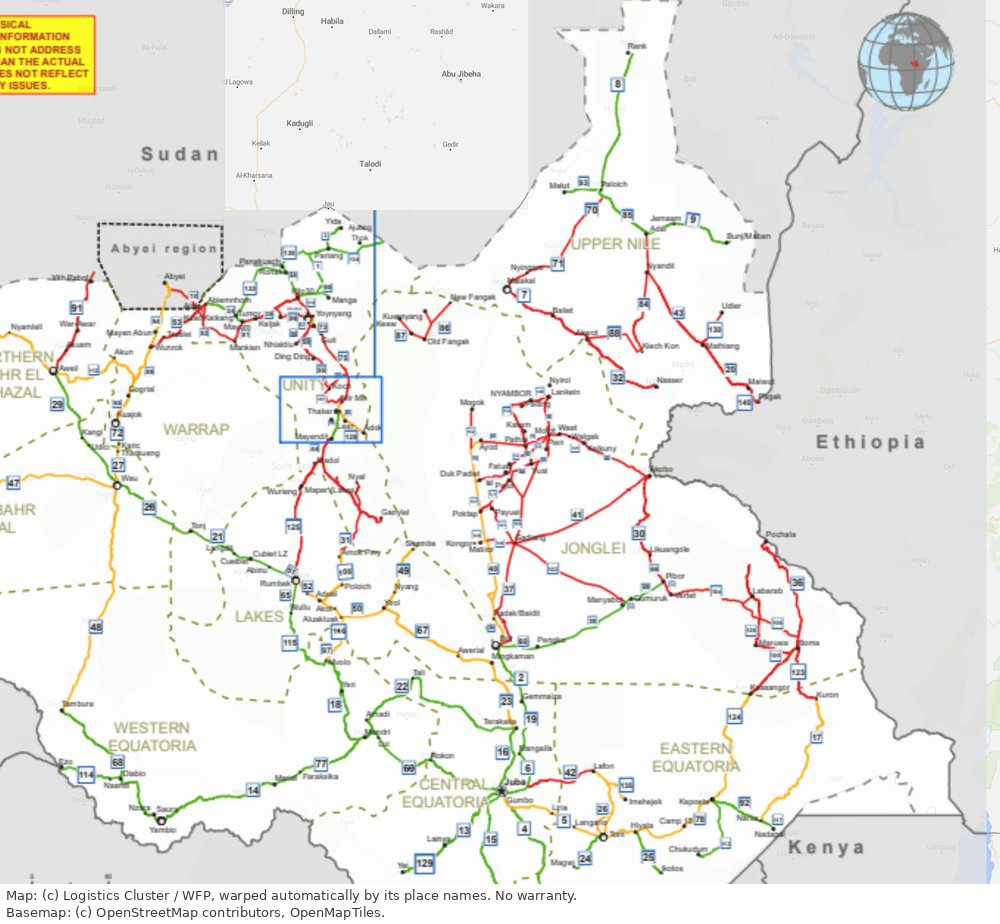
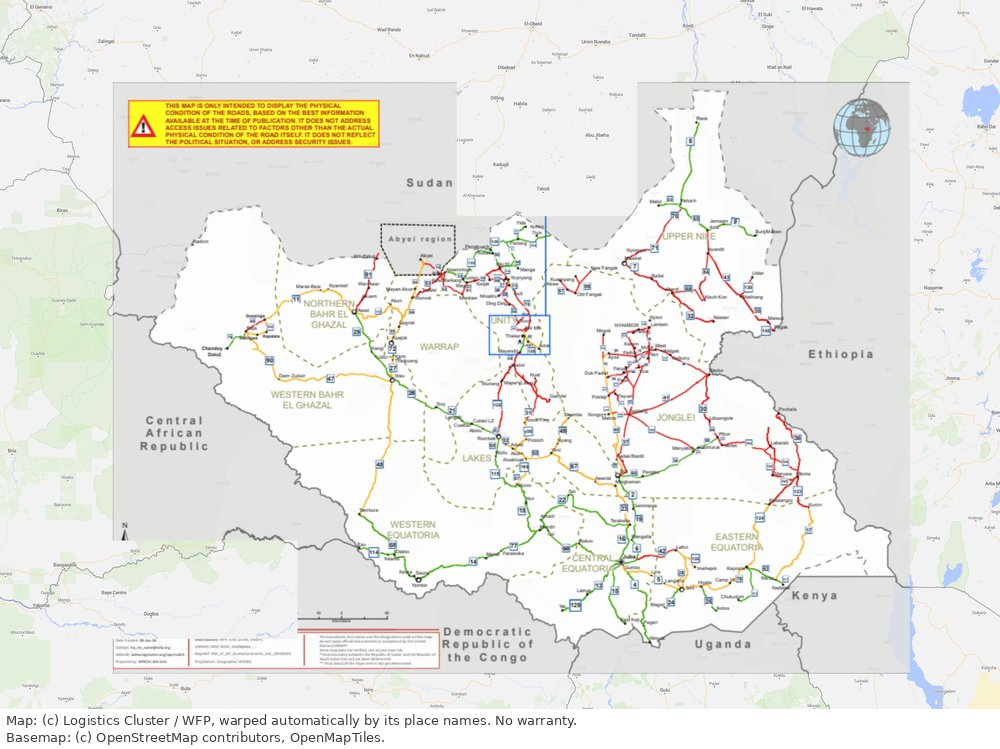
README: quoted and georeferenced WFP maps side by side, on a wider reference
The reference cut off the west and south of South Sudan; it now spans
21.8-37.6 E, 1.9-13.6 N. The GIF draws the roads after the background is
made small, at 3 px, with one palette that keeps the status colours exact
(a palette per frame had turned red brown).

Claude-Session: https://claude.ai/code/session_01Y7Mysqy6k86s5wo5Qk5Znr

diff --git a/.agents/skills/road-access/scripts/road_render.py b/.agents/skills/road-access/scripts/road_render.py
@@ -77,9 +77,23 @@ def frames_of(docs):
     return out
 
 
-def to_px(gt, lon, lat):
+def to_px(gt, lon, lat, scale=1.0):
     mx, my = wm.lonlat_to_mercator(lon, lat)
-    return (mx - gt[0]) / gt[1], (my - gt[3]) / gt[5]
+    return (mx - gt[0]) / gt[1] * scale, (my - gt[3]) / gt[5] * scale
+
+
+def palette_for(base, colours=112):
+    """A palette for every frame: the background's own colours, then the status colours and the text's, exactly
+    (a palette made per frame turns red brown and greens grey)."""
+    from PIL import Image
+    q = base.quantize(colors=colours, method=Image.MEDIANCUT)
+    pal = q.getpalette()[: colours * 3]
+    for c in list(COLOURS.values()) + [(0, 0, 0), (60, 60, 60), (255, 255, 255), (120, 120, 120)]:
+        pal += list(c)
+    pal += [0] * (768 - len(pal))
+    img = Image.new("P", (1, 1))
+    img.putpalette(pal)
+    return img
 
 
 def font(size):
@@ -92,7 +106,7 @@ def font(size):
     return ImageFont.load_default(size=size)
 
 
-def draw_roads(base, gt, features, width=4):
+def draw_roads(base, gt, features, width=4, scale=1.0):
     from PIL import ImageDraw
     dr = ImageDraw.Draw(base)
     order = ["passable", "last-mile delivery by land cruiser", "passable with difficulties", "not passable"]
@@ -102,7 +116,7 @@ def draw_roads(base, gt, features, width=4):
                 continue
             g = f["geometry"]
             for p in ([g["coordinates"]] if g["type"] == "LineString" else g["coordinates"]):
-                dr.line([to_px(gt, *c) for c in p], fill=COLOURS[s], width=width, joint="curve")
+                dr.line([to_px(gt, *c, scale=scale) for c in p], fill=COLOURS[s], width=width, joint="curve")
     return base
 
 
@@ -195,16 +209,18 @@ def cmd_gif(a):
     from PIL import Image
     docs = [json.loads(Path(p).read_text()) for p in a.geojson]
     ref, gt = load_reference(a.reference)
+    # the background is made small first and the roads drawn on it at their final width
+    scale = min(1.0, a.width / ref.width) if a.width else 1.0
+    base = faded(ref).resize((round(ref.width * scale), round(ref.height * scale)), Image.LANCZOS)
+    pal = palette_for(base)
     frames = []
     for d, feats, km in frames_of(docs):
-        img = draw_roads(faded(ref), gt, feats, width=a.line)
+        img = draw_roads(base.copy(), gt, feats, width=a.line, scale=scale)
         lines = [(d, None)] + [(f"{LABELS[s]}: {round(km.get(s, 0)):,} km", COLOURS[s])
                                for s in LABELS if s in km or s != "last-mile delivery by land cruiser"]
-        if a.width and img.width > a.width:
-            img = img.resize((a.width, round(img.height * a.width / img.width)), Image.LANCZOS)
-        legend(img, lines, (10, 10), size=max(12, a.width // 50))
-        credit(img, size=max(10, a.width // 70))
-        frames.append(img.quantize(colors=96, method=Image.MEDIANCUT, dither=Image.NONE))
+        legend(img, lines, (10, 10), size=max(12, img.width // 50))
+        credit(img, size=max(10, img.width // 70))
+        frames.append(img.quantize(palette=pal, dither=Image.NONE))
     frames[0].save(a.out, save_all=True, append_images=frames[1:], duration=a.ms, loop=0, optimize=True)
     print(json.dumps({"out": a.out, "frames": len(frames)}))
 
@@ -224,8 +240,8 @@ def main():
     m.add_argument("geojson", nargs="+")
     m.add_argument("--reference", required=True)
     m.add_argument("--out", required=True)
-    m.add_argument("--width", type=int, default=800)
-    m.add_argument("--line", type=int, default=5)
+    m.add_argument("--width", type=int, default=900)
+    m.add_argument("--line", type=int, default=3)
     m.add_argument("--ms", type=int, default=700)
     a = ap.parse_args()
     {"georef": cmd_georef, "gif": cmd_gif}[a.cmd](a)

diff --git a/.agents/skills/road-access/scripts/test_road_render.py b/.agents/skills/road-access/scripts/test_road_render.py
@@ -36,3 +36,14 @@ def test_frames_are_in_date_order_with_lengths_by_status():
     assert [d for d, _, _ in fr] == ["2026-01-01", "2026-02-01"]
     km = fr[1][2]
     assert abs(km["passable"] - 111.2) < 1 and fr[0][2]["not passable"] > 150
+
+
+def test_a_palette_keeps_the_status_colours_exactly():
+    from PIL import Image, ImageDraw
+    base = Image.new("RGB", (50, 50), (240, 240, 240))
+    ImageDraw.Draw(base).rectangle([0, 0, 25, 25], fill=(200, 220, 200))
+    pal = rr.palette_for(base)
+    img = base.copy()
+    ImageDraw.Draw(img).line([(0, 40), (49, 40)], fill=rr.COLOURS["not passable"], width=3)
+    q = img.quantize(palette=pal, dither=Image.NONE).convert("RGB")
+    assert q.getpixel((20, 40)) == rr.COLOURS["not passable"]

diff --git a/README.md b/README.md
@@ -305,23 +305,14 @@ PDF が 1,310 件ある全体の処理は、新しい年から進めています
 
 30 枚全てが関門を通りました (アフィン、GCP は 31〜92 点、1 点ずつ外したときの残差は最大 2.28 px)。道路の線は合わせて 8,939 本です。
 
-下の 2 枚は、乾季の 2026 年 1 月 9 日と、雨季の 2026 年 7 月 31 日の元の地図です。どちらも原本の PDF から縮小して引用しています。
+乾季の 2026 年 1 月 9 日と雨季の 2026 年 7 月 31 日の版について、引用元の地図 (原本の PDF から縮小して引用) と、関門を通った答え (地名から作った GCP によるアフィン変換) で OSM の上に写した図を並べます。国境、町、川が OSM の位置に重なります。右の表と、地図の上に重ねた拡大図は、位置が合わないので外しています。
 
-![South Sudan - Access Constraints Map, 9 January 2026 (引用)](docs/examples/level6-wfp-ssd-2026-01-09-original.jpg)
+| 日付 | 引用元 | ジオリファレンス後 |
+|---|---|---|
+| 2026-01-09 | ![South Sudan - Access Constraints Map, 9 January 2026 (引用)](docs/examples/level6-wfp-ssd-2026-01-09-original.jpg)<br>引用元: [Access Constraints Map, 9 January 2026, Logistics Cluster](https://logcluster.org/en/documents/maps-general-4136)<br>© Logistics Cluster / WFP | ![1 月 9 日の地図を OSM に重ねた図](docs/examples/level6-wfp-ssd-2026-01-09-georef.jpg) |
+| 2026-07-31 | ![South Sudan - Access Constraints Map, 31 July 2026 (引用)](docs/examples/level6-wfp-ssd-2026-07-31-original.jpg)<br>引用元: [Access Constraints Map, 31 July 2026, Logistics Cluster](https://logcluster.org/en/documents/south-sudan-access-constraints-map-31-july-2026)<br>© Logistics Cluster / WFP | ![7 月 31 日の地図を OSM に重ねた図](docs/examples/level6-wfp-ssd-2026-07-31-georef.jpg) |
 
-引用元: [South Sudan - Maps - General (Access Constraints Map, 9 January 2026), Logistics Cluster](https://logcluster.org/en/documents/maps-general-4136)。© Logistics Cluster / WFP
-
-![South Sudan - Access Constraints Map, 31 July 2026 (引用)](docs/examples/level6-wfp-ssd-2026-07-31-original.jpg)
-
-引用元: [South Sudan - Access Constraints Map, 31 July 2026, Logistics Cluster](https://logcluster.org/en/documents/south-sudan-access-constraints-map-31-july-2026)。© Logistics Cluster / WFP
-
-同じ 2 枚を、関門を通った答え (地名から作った GCP によるアフィン変換) で OSM の上に写した図です。国境、町、川が OSM の位置に重なります。右の表と、地図の上に重ねた拡大図は、位置が合わないので外しています。
-
-![1 月 9 日の地図を OSM に重ねた図](docs/examples/level6-wfp-ssd-2026-01-09-georef.jpg)
-
-![7 月 31 日の地図を OSM に重ねた図](docs/examples/level6-wfp-ssd-2026-07-31-georef.jpg)
-
-地図: © Logistics Cluster / WFP (引用元は上の 2 つのページ)。背景: [© OpenStreetMap contributors](https://www.openstreetmap.org/copyright)、OpenMapTiles。
+地図: © Logistics Cluster / WFP (引用元は表の中のページ)。背景: [© OpenStreetMap contributors](https://www.openstreetmap.org/copyright)、OpenMapTiles。
 
 30 枚の GeoJSON を日付順に同じ地図の上に描くと、通れる道路の時系列変化になります。左上の数字は、通行状況ごとの道路の長さです。
 

diff --git a/.agents/skills/road-access/SKILL.md b/.agents/skills/road-access/SKILL.md
@@ -77,7 +77,7 @@ uvx --with numpy --with opencv-python-headless --with pypdfium2 --with pillow py
   --pdf map.pdf --run work/runs/<stem> --results work/results.jsonl --reference ref_dir --out map_georef.jpg
 # GeoJSON を日付順に同じ参照の地図に描き、通行状況ごとの道路の長さを添えた GIF にする
 uvx --with numpy --with opencv-python-headless --with pillow python scripts/road_render.py gif \
-  geojson/*.geojson --reference ref_dir --out series.gif
+  geojson/*.geojson --reference ref_dir --out series.gif  # 背景を先に縮め、道路はその上に描く。色は全コマ共通のパレット
 ```
 
 `ref_dir` には `reference.png` と `reference.json` (geotransform) を置く (tile-reference スキルで作れる)。`georef` は、答えの逆の変換 (メルカトルから地図の画素へ) で参照の画素ごとに地図の色を引く。外す範囲は `road_geojson.py` と同じである。図の中のクレジットは英語で書く (Logistics Cluster / WFP と OpenStreetMap)。
